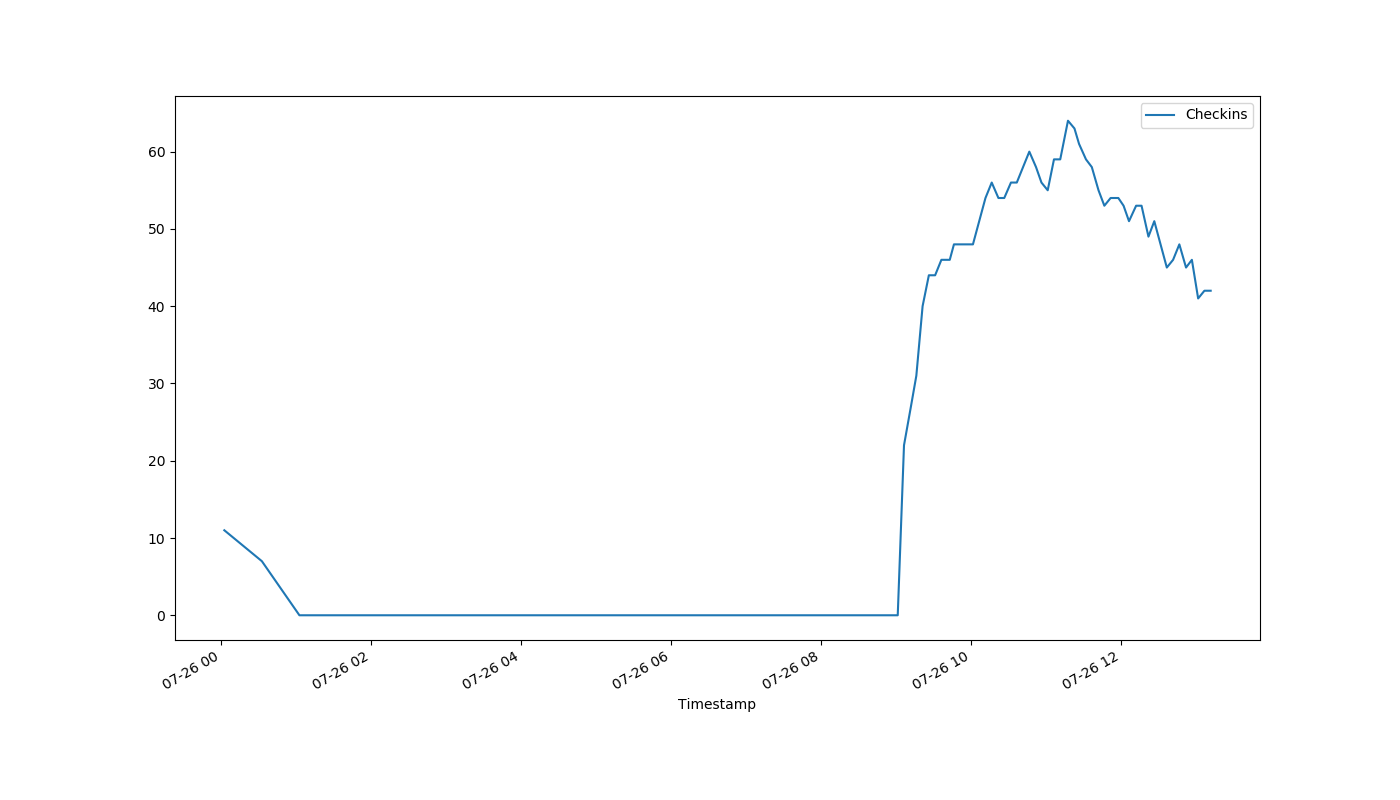
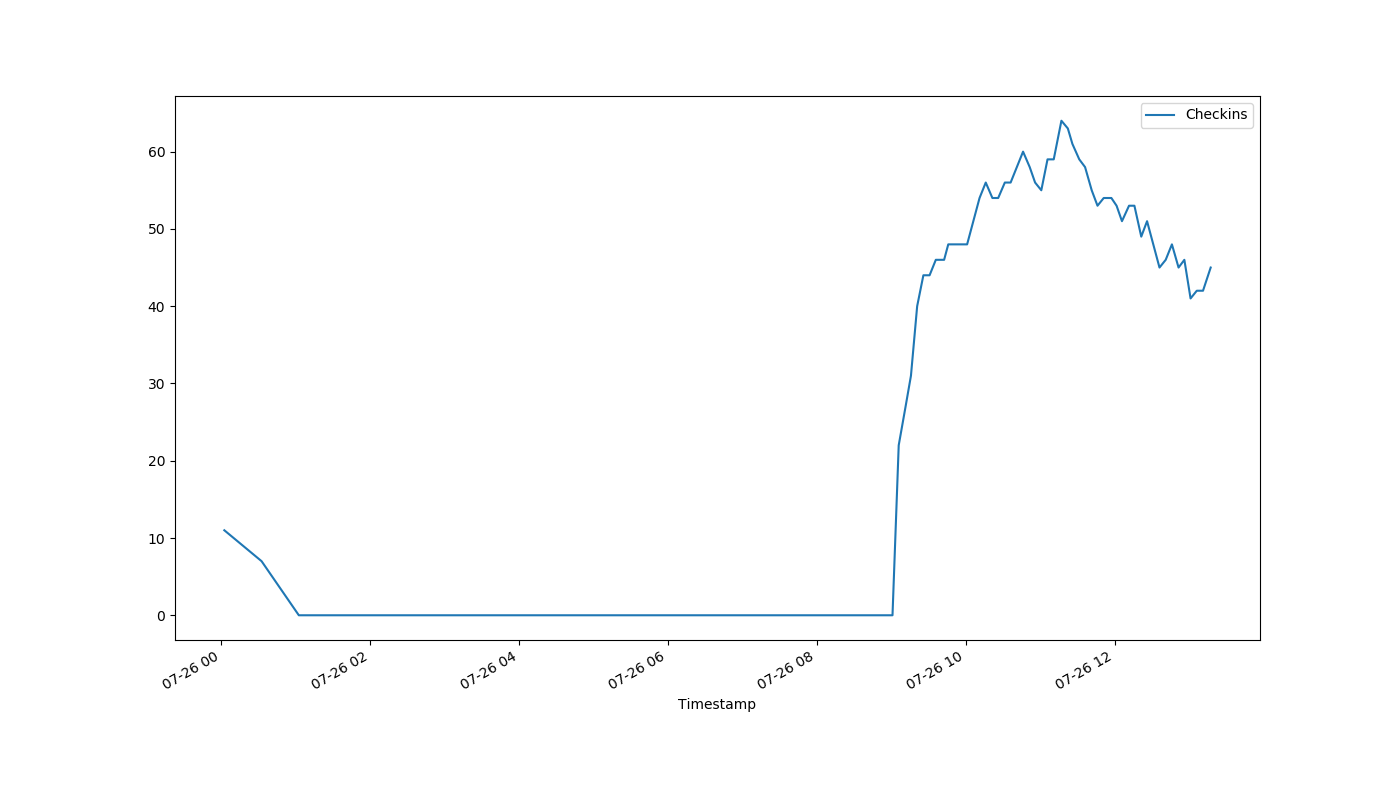
auto-Jul-26-13:18:20

diff --git a/index.html b/index.html
@@ -1,1 +1,1 @@
-<!DOCTYPE html><html><head><meta http-equiv="refresh" content="30"><link rel='stylesheet' href='holmcurrent.css'></head><body><p id='count'>42</p><div id='graph-wrap'><img id='graph' src='holmgraph-Jul-26.png'></div><p id='updated'>Last updated 13:12:03 / 13:11:17</p></body></html>
+<!DOCTYPE html><html><head><meta http-equiv="refresh" content="30"><link rel='stylesheet' href='holmcurrent.css'></head><body><p id='count'>45</p><div id='graph-wrap'><img id='graph' src='holmgraph-Jul-26.png'></div><p id='updated'>Last updated 13:18:03 / 13:17:28</p></body></html>
